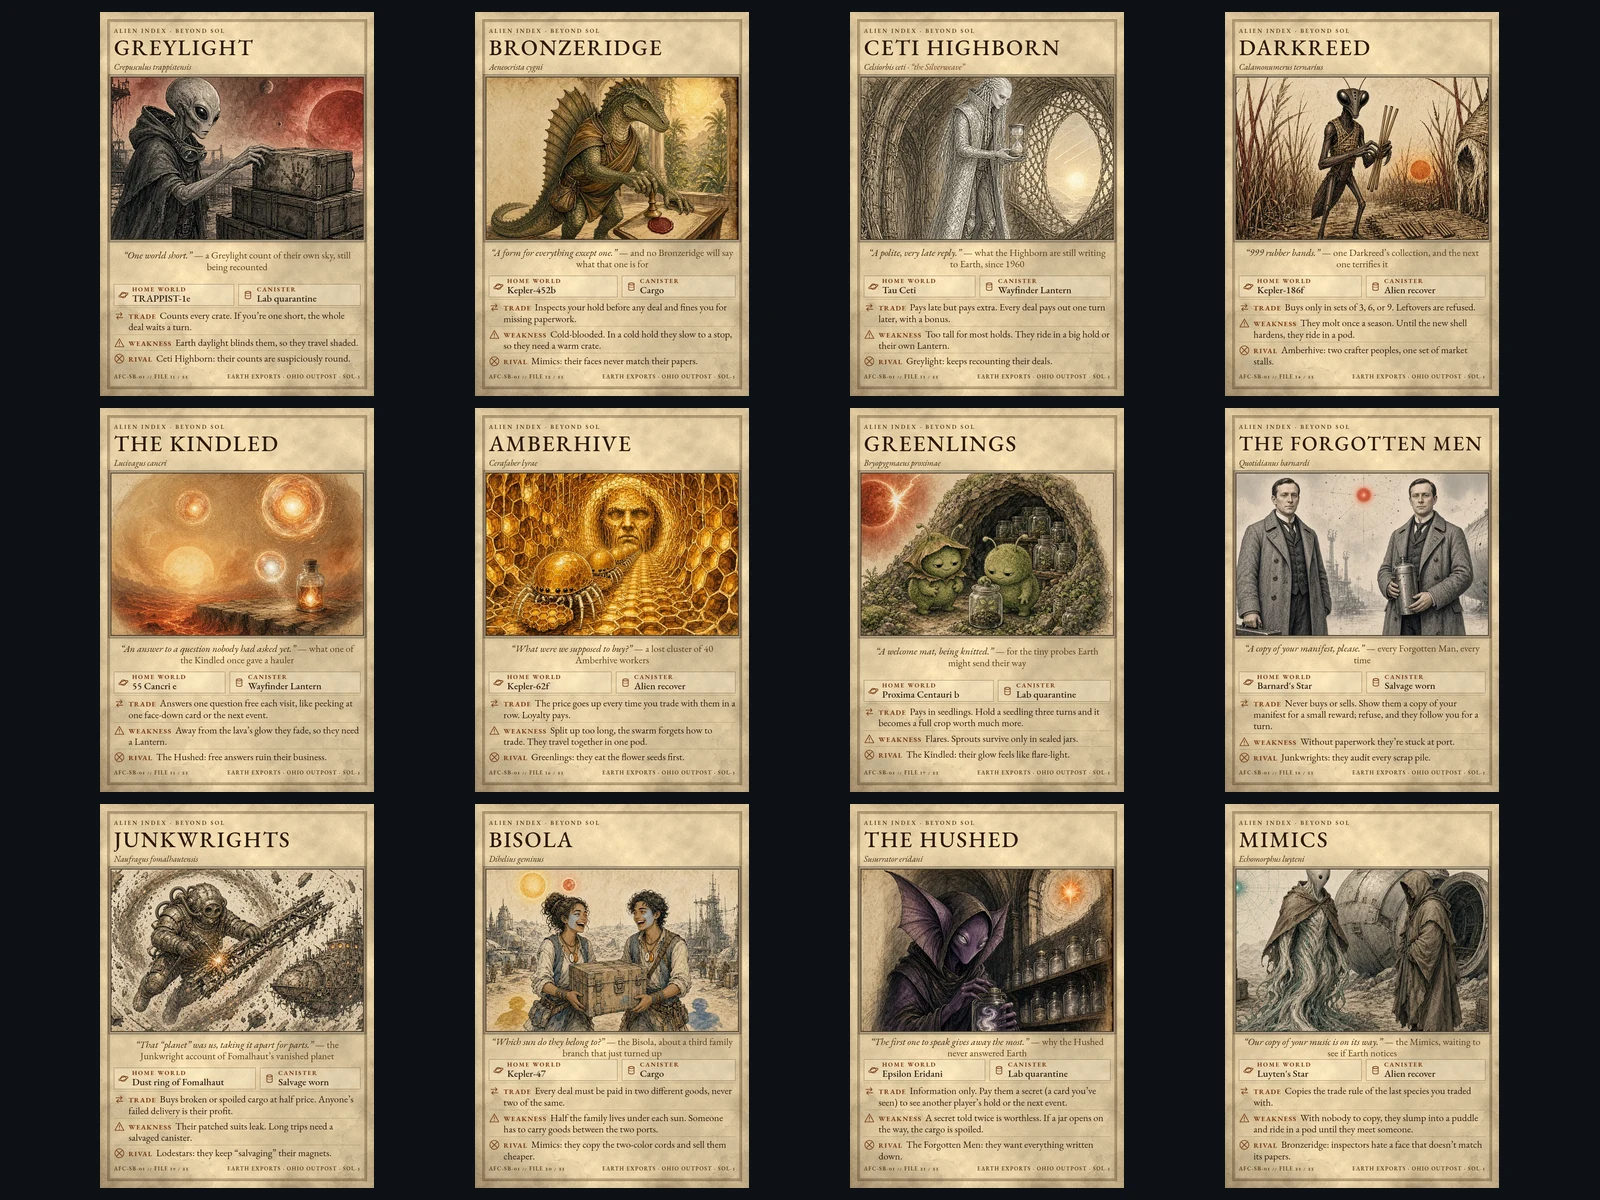
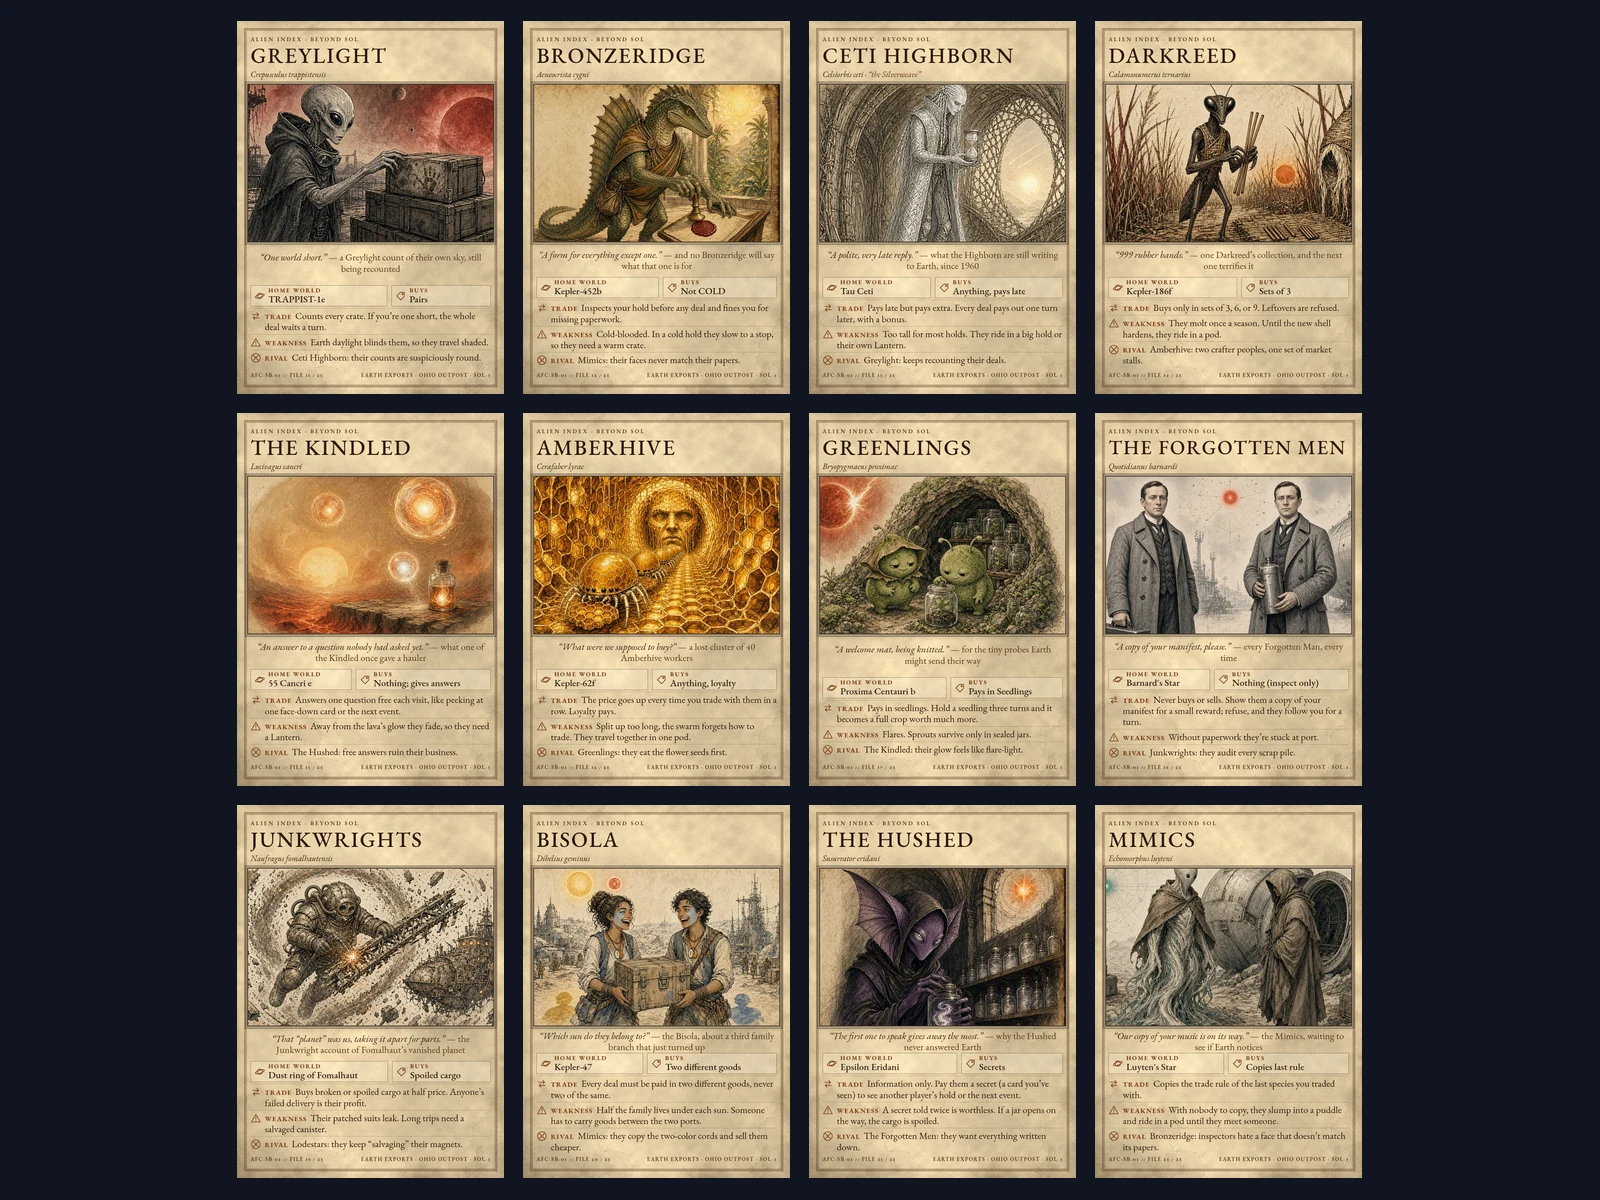
Star map panel shows Buys instead of Canister; regenerate all-cards/starter/beyond pictures from current cards

diff --git a/sector-01.html b/sector-01.html
@@ -10,7 +10,7 @@
   <meta property="og:title" content="Cards &amp; Games · Earth Exports">
   <meta property="og:description" content="Alien trading card packs and MANIFEST, a quick tabletop trading game, from a small Ohio maker shop.">
   <meta property="og:url" content="https://earthexportsshop.com/sector-01.html">
-  <meta property="og:image" content="https://earthexportsshop.com/images/products/all-cards.webp?v=20261013-clean">
+  <meta property="og:image" content="https://earthexportsshop.com/images/products/all-cards.webp?v=20261014-buys">
   <meta name="twitter:card" content="summary_large_image">
   <link rel="canonical" href="https://earthexportsshop.com/sector-01.html">
   <link rel="icon" href="assets/logos/ee-logo-sol3-mark.svg" type="image/svg+xml">
@@ -92,7 +92,7 @@
       <p class="grid-note">Art is still being finished. No prices or release dates yet.</p>
       <div class="product-grid" aria-label="Cards and games">
         <article class="product-card">
-          <figure class="ph ph-fit" data-cardset="starter"><img src="images/products/merchant-starter.webp?v=20261013-clean" width="1600" height="1200" loading="lazy" decoding="async" alt="The Merchant Starter cards: the 11 Sol species as Earth file cards, plus 4 Smuggler cards."></figure>
+          <figure class="ph ph-fit" data-cardset="starter"><img src="images/products/merchant-starter.webp?v=20261014-buys" width="1600" height="1200" loading="lazy" decoding="async" alt="The Merchant Starter cards: the 11 Sol species as Earth file cards, plus 4 Smuggler cards."></figure>
           <div class="pc-body">
             <p class="pc-lore">Starter set</p>
             <h3>Merchant Starter (Sol)</h3>
@@ -102,7 +102,7 @@
           </div>
         </article>
         <article class="product-card">
-          <figure class="ph ph-fit" data-cardset="beyond"><img src="images/products/beyond-sol.webp?v=20261013-clean" width="1600" height="1200" loading="lazy" decoding="async" alt="The 12 Beyond Sol species cards."></figure>
+          <figure class="ph ph-fit" data-cardset="beyond"><img src="images/products/beyond-sol.webp?v=20261014-buys" width="1600" height="1200" loading="lazy" decoding="async" alt="The 12 Beyond Sol species cards."></figure>
           <div class="pc-body">
             <p class="pc-lore">Expansion</p>
             <h3>Earth Exports: Beyond Sol</h3>

diff --git a/index.html b/index.html
@@ -119,7 +119,7 @@
         <p class="shelf-note">Three kinds of things, all designed and finished in Ohio. Pick one to see the products.</p>
         <div class="cat-grid">
           <a class="cat-tile" href="sector-01.html">
-            <figure class="ph ph-fit" data-cardset="all"><img src="images/products/all-cards.webp?v=20261013-clean" width="1600" height="1200" loading="lazy" decoding="async" alt="All 23 Earth Exports species cards laid out in a grid."></figure>
+            <figure class="ph ph-fit" data-cardset="all"><img src="images/products/all-cards.webp?v=20261014-buys" width="1600" height="1200" loading="lazy" decoding="async" alt="All 23 Earth Exports species cards laid out in a grid."></figure>
             <span class="cat-body"><span class="cat-name">Cards &amp; Games</span><span class="cat-line">The Merchant Starter, the Beyond Sol expansion, boosters and MANIFEST.</span><span class="cat-go" aria-hidden="true">Shop →</span></span>
           </a>
           <a class="cat-tile" href="sector-02.html">

diff --git a/star-map.html b/star-map.html
@@ -209,6 +209,6 @@
   <script src="js/forms-config.js?v=20260927-tabs"></script>
   <script src="js/contact-form.js?v=20260927-tabs" defer></script>
   <script src="js/vex-chat.js?v=20260927-tabs" defer></script>
-  <script src="js/star-map.js?v=20261014-buys" defer></script>
+  <script src="js/star-map.js?v=20261014-buys2" defer></script>
 </body>
 </html>

diff --git a/js/star-map.js b/js/star-map.js
@@ -721,7 +721,7 @@
       ["tradeRule", "Trade rule"],
       ["weakness", "Weakness"],
       ["rival", "Rival"],
-      ["canister", "Canister"]
+      ["buys", "Buys"]
     ].forEach(function (row) {
       if (!species[row[0]]) return;
       var dt = document.createElement("dt");
